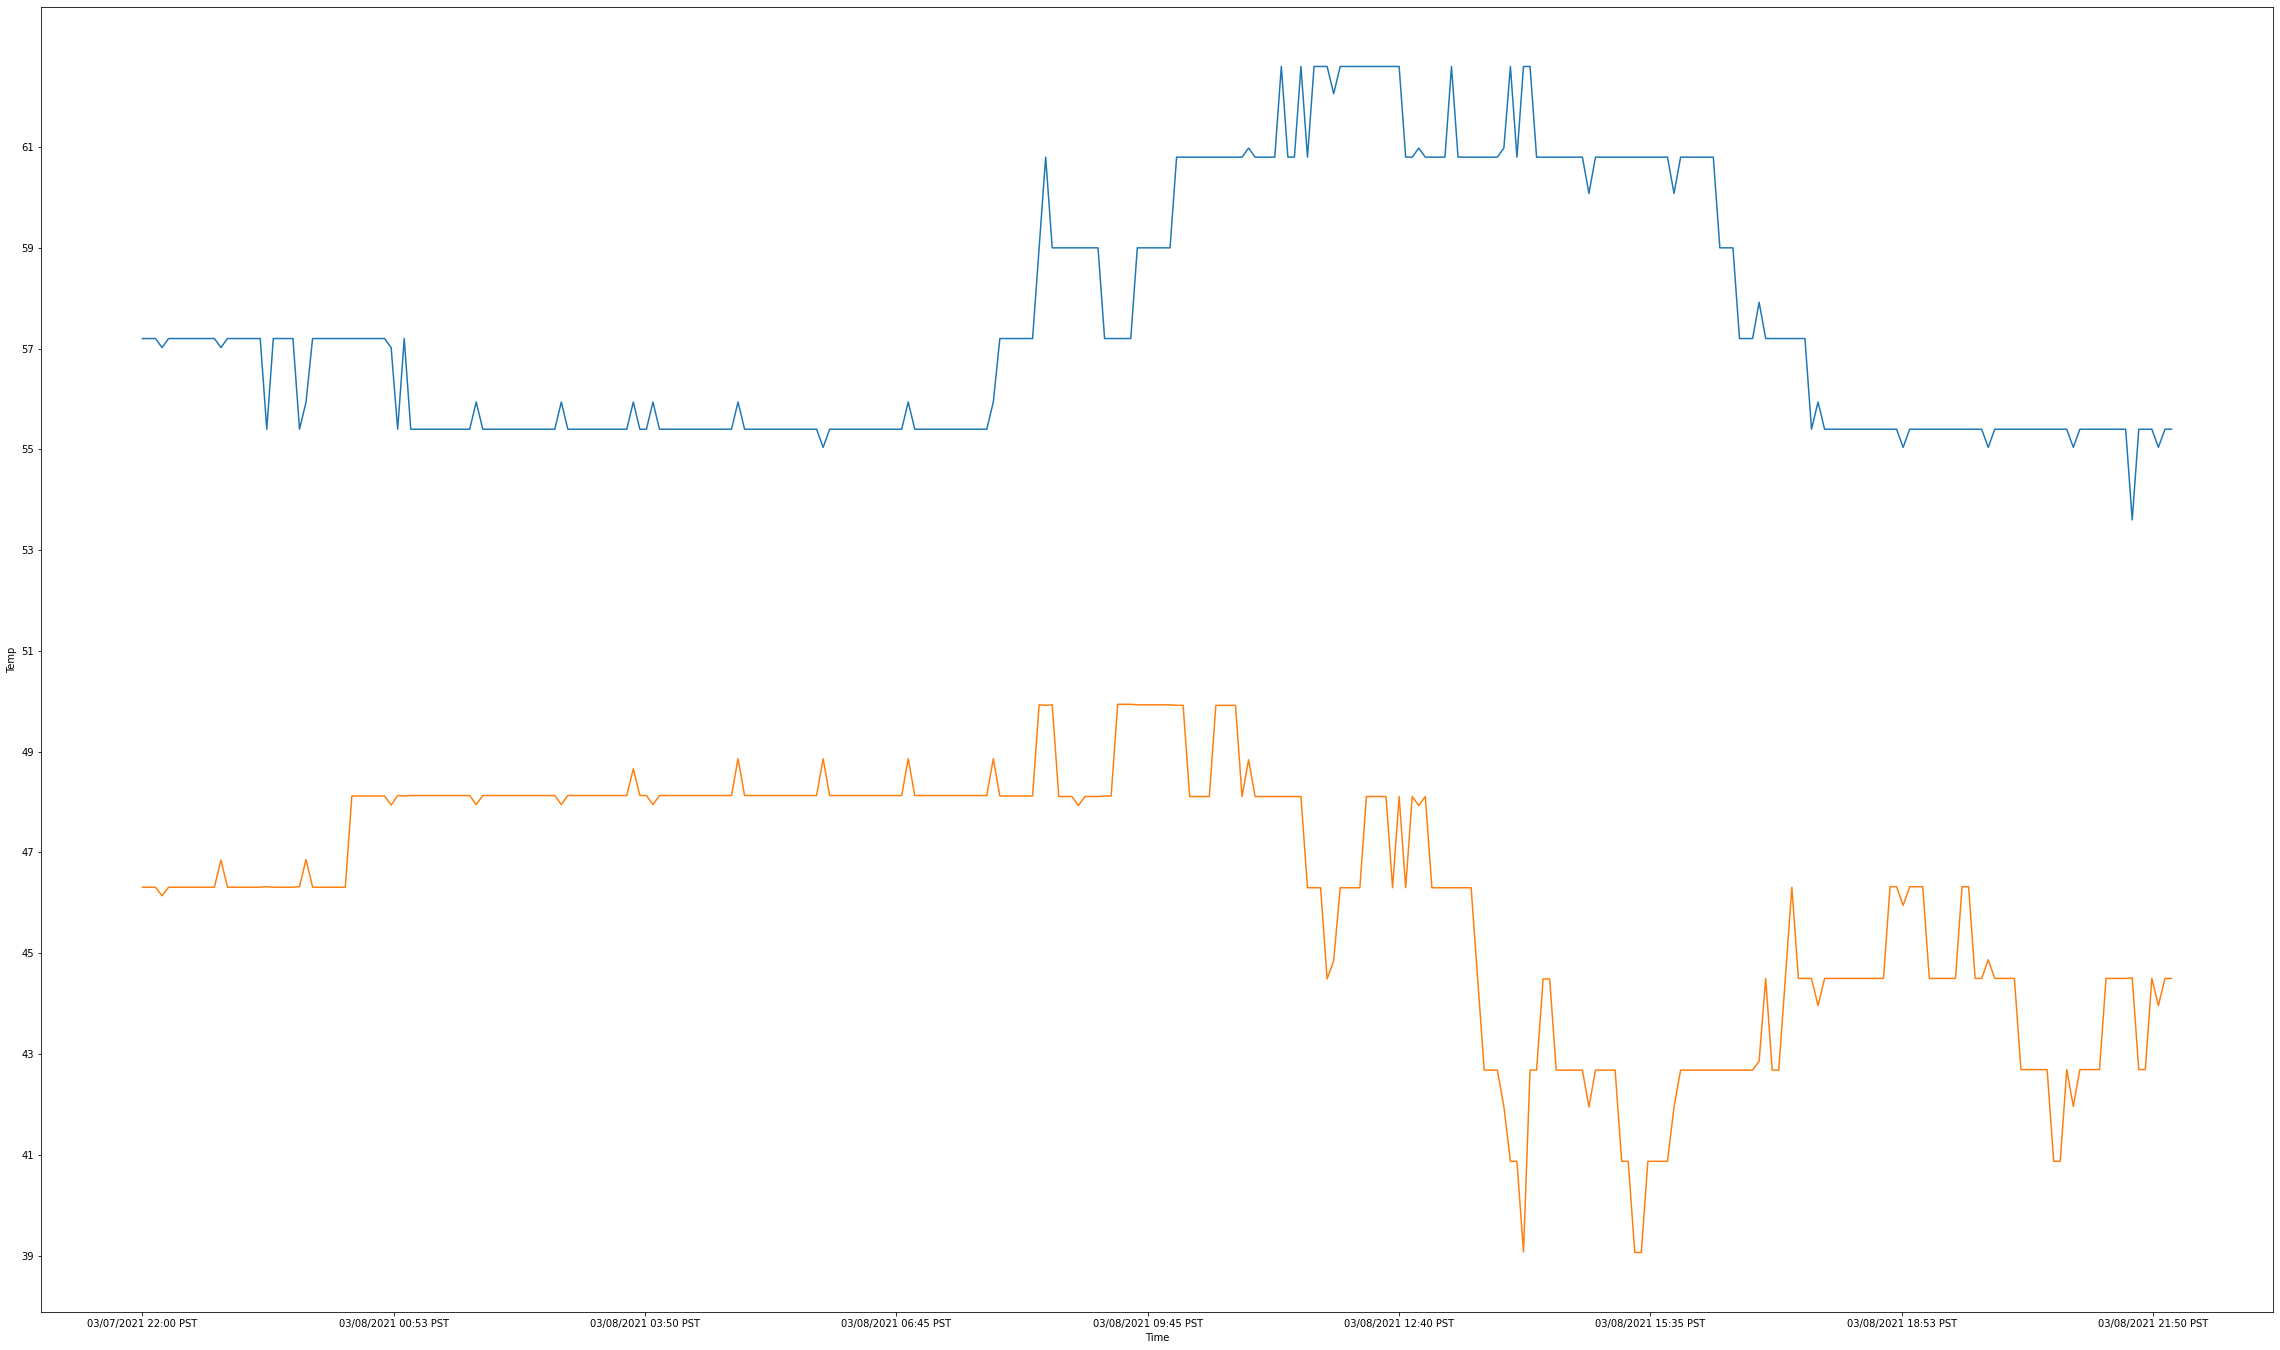
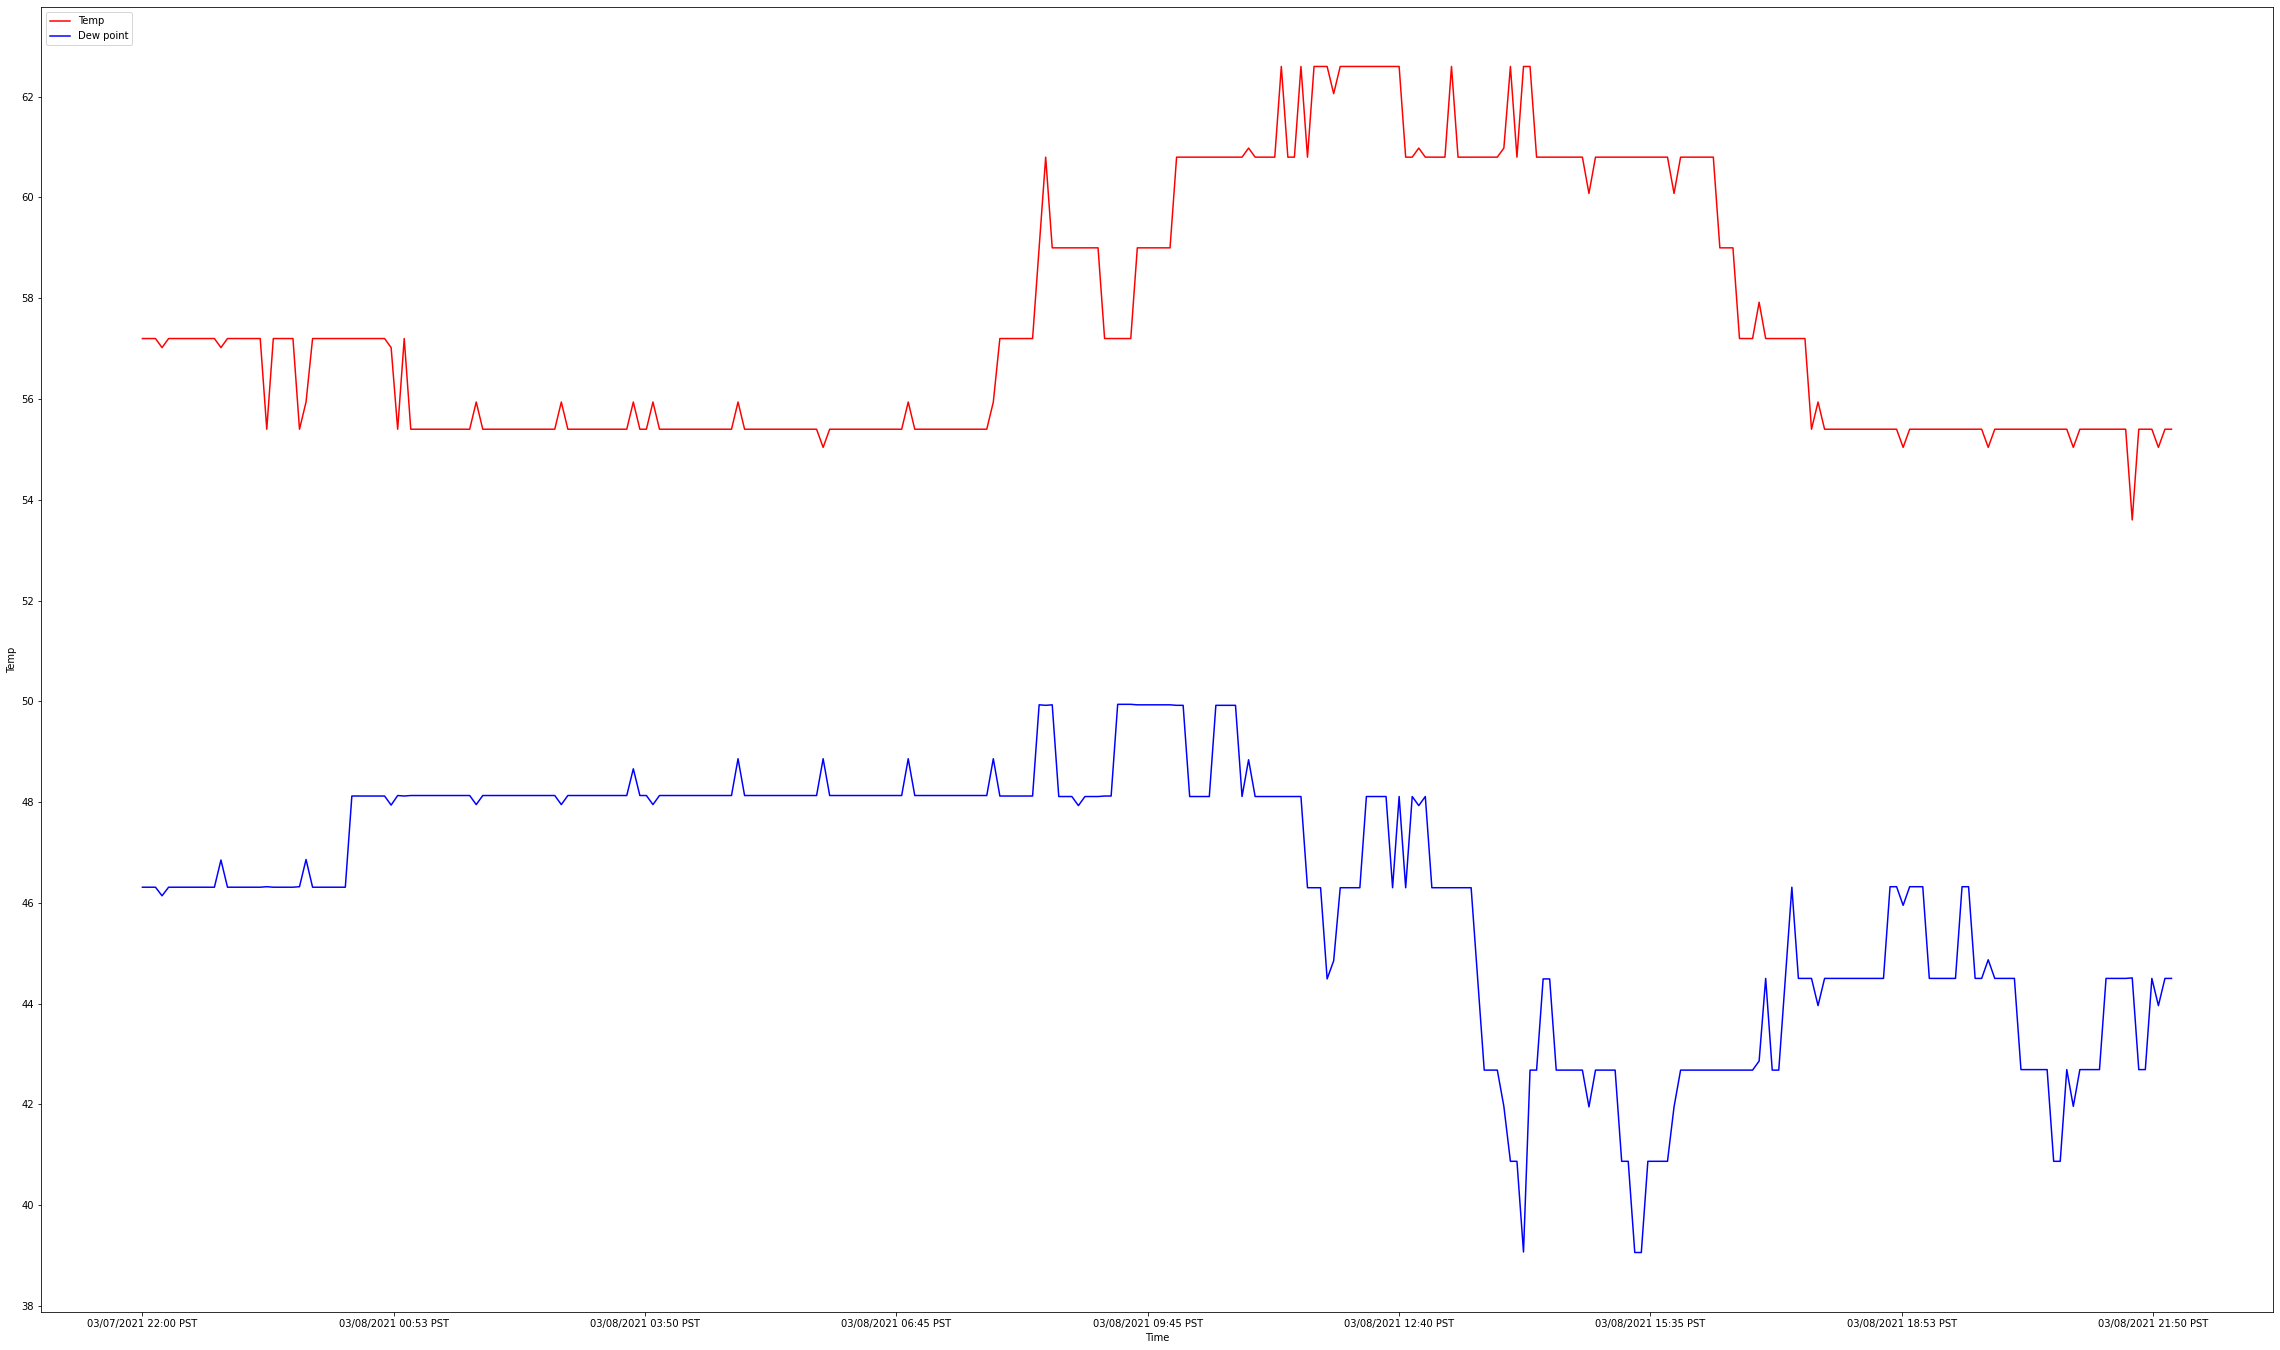
Add files via upload

diff --git a/csvReaderImproved.py b/csvReaderImproved.py
@@ -255,8 +255,9 @@ for loop in range(100):
             plt.yticks(y_ticks)
             
             Time = ['\n'.join(wrap(l, 12)) for l in Time]
-            plt.plot(TimePlot,TempPlot)
-            plt.plot(TimePlot,DewpointPlot)
+            plt.plot(TimePlot,TempPlot, "-r", label="Temp")
+            plt.plot(TimePlot,DewpointPlot, "-b", label="Dew point")
+            plt.legend(loc='upper left')
             plt.xlabel('Time')
             plt.ylabel('Temp')
             plt.show()
